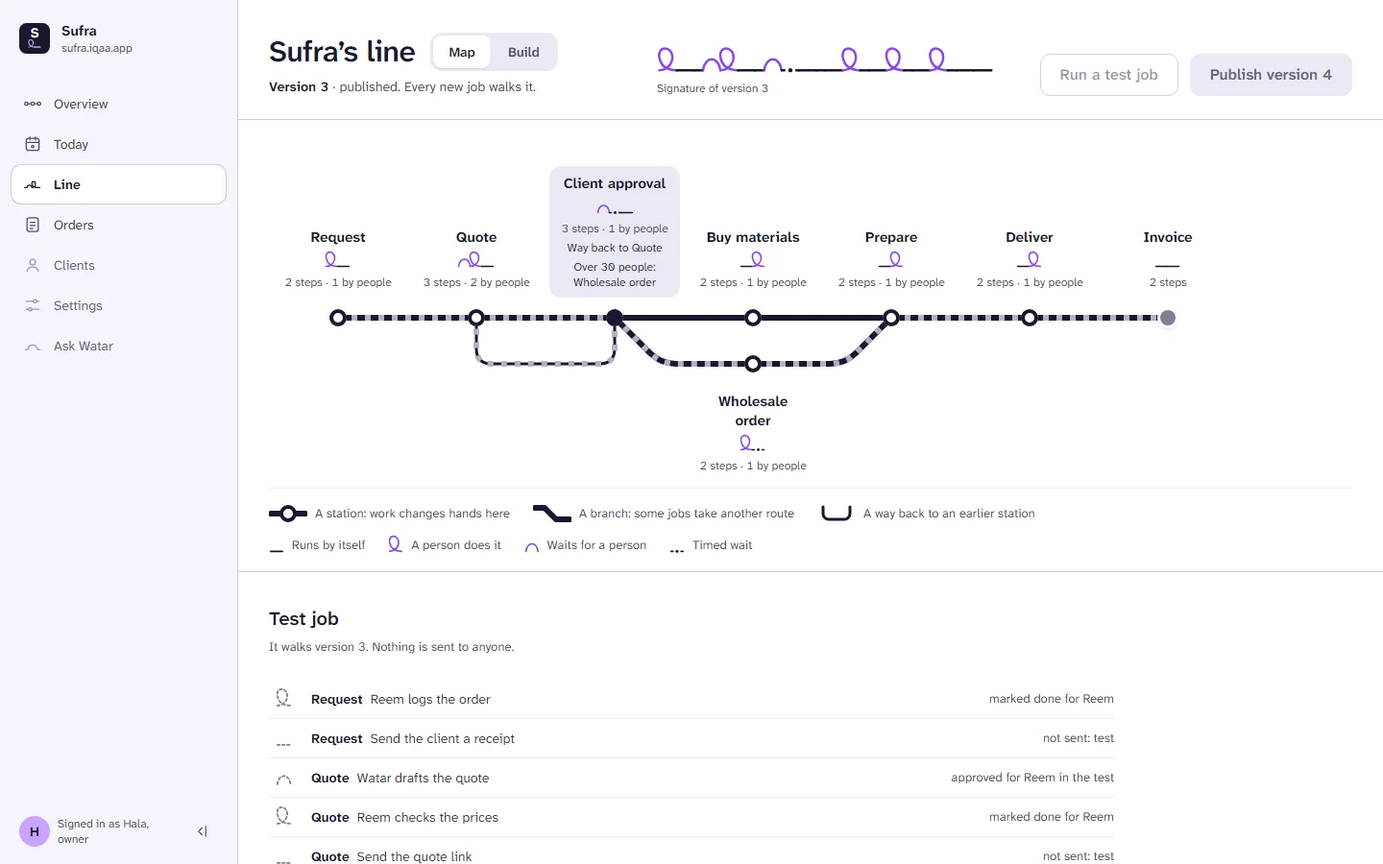
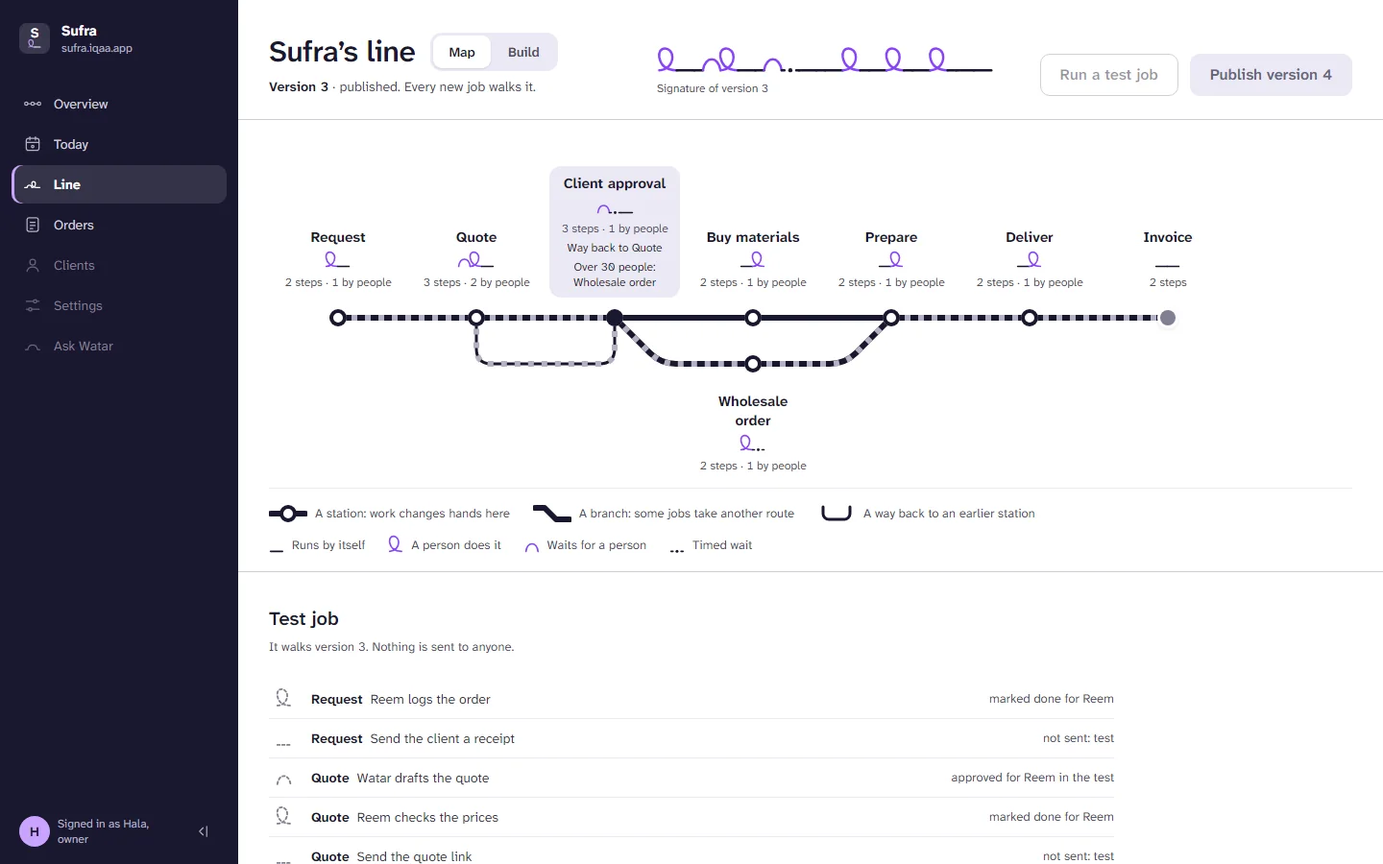
Fold the Build panels, style scrollbars, and layer the surfaces
- Blocks and Settings panels fold away so the canvas takes the full
  width; each folded panel leaves a tab on the canvas edge, [ and ]
  toggle them, and the choice is remembered.
- Thin rounded scrollbars in the identity's greys across the app.
- Distinct surfaces: ink sidebar on desktop, quiet grey library with
  a white head, white canvas, raised settings panel with a titled
  strip and divided sections, header lifted off the canvas.
- Bump the asset version to 89 and recapture the Screens images.

Changed region(s): [[0.0, 0.0, 0.1875, 1.0]]

diff --git a/build.html b/build.html
@@ -7,12 +7,12 @@
 <meta name="robots" content="noindex">
 <link rel="icon" href="favicon.svg" type="image/svg+xml">
 <link rel="preload" href="assets/fonts/atkinson.woff2" as="font" type="font/woff2" crossorigin>
-<link rel="stylesheet" href="assets/css/tokens.css?v=88">
-<link rel="stylesheet" href="assets/css/brand.css?v=88">
-<link rel="stylesheet" href="assets/css/auth.css?v=88">
-<link rel="stylesheet" href="assets/css/app.css?v=88">
-<link rel="stylesheet" href="assets/css/build.css?v=88">
-<script src="assets/js/iqaa-data.js?v=88" defer></script><script src="assets/js/grammar.js?v=88" defer></script><script src="assets/js/beats.js?v=88" defer></script><script src="assets/js/sufra.js?v=88" defer></script><script src="assets/js/build.js?v=88" defer></script><script src="assets/js/app.js?v=88" defer></script>
+<link rel="stylesheet" href="assets/css/tokens.css?v=89">
+<link rel="stylesheet" href="assets/css/brand.css?v=89">
+<link rel="stylesheet" href="assets/css/auth.css?v=89">
+<link rel="stylesheet" href="assets/css/app.css?v=89">
+<link rel="stylesheet" href="assets/css/build.css?v=89">
+<script src="assets/js/iqaa-data.js?v=89" defer></script><script src="assets/js/grammar.js?v=89" defer></script><script src="assets/js/beats.js?v=89" defer></script><script src="assets/js/sufra.js?v=89" defer></script><script src="assets/js/build.js?v=89" defer></script><script src="assets/js/app.js?v=89" defer></script>
 </head>
 <body class="app">
 <a class="skip" href="#main">Skip to content</a>
@@ -36,7 +36,8 @@
 </div>
 </header>
 <div class="bd-body">
-<aside class="bd-lib" aria-labelledby="lib-h"><h2 id="lib-h">Blocks</h2><p class="hint">Drag a block onto a station, or onto the canvas for a new station.</p><p class="lib-new"><button type="button" class="lib-it st" data-lib="station"><span class="lib-ic"><svg viewBox="0 0 40 20" width="40" height="20" aria-hidden="true"><path d="M2 10h36" stroke="#fff" stroke-width="5" stroke-linecap="round"/><circle cx="20" cy="10" r="6.5" fill="#19172E" stroke="#fff" stroke-width="3.5"/></svg></span><span><b>Station</b><span>Where work changes hands</span></span></button></p><h3><span class="lib-g"><svg viewBox="-3.2 -33.2 30.4 42.2" width="14" height="19.434" aria-hidden="true"><path d="M0 0c10 0 18 -8 18 -18c0 -8 -6 -12 -10 -12c-6 0 -9 5 -8 12c2 12 10 18 24 18" fill="none" stroke="#8845F8" stroke-width="3.2" stroke-linecap="round" stroke-linejoin="round"/></svg></span>By hand</h3><ul><li><button type="button" class="lib-it" data-lib="task"><span class="lib-ic"><svg viewBox="-3.2 -33.2 30.4 42.2" width="22" height="30.539" aria-hidden="true"><path d="M0 0c10 0 18 -8 18 -18c0 -8 -6 -12 -10 -12c-6 0 -9 5 -8 12c2 12 10 18 24 18" fill="none" stroke="#8845F8" stroke-width="3.2" stroke-linecap="round" stroke-linejoin="round"/></svg></span><span><b>Task</b><span>Someone does a piece of work, with a checklist</span></span></button></li></ul><h3><span class="lib-g"><svg viewBox="-3.2 -33.2 30.4 42.2" width="14" height="19.434" aria-hidden="true"><path d="M0 0c3 -20 21 -20 24 0" fill="none" stroke="#8845F8" stroke-width="3.2" stroke-linecap="round" stroke-linejoin="round"/></svg></span>Waits for a person</h3><ul><li><button type="button" class="lib-it" data-lib="approval"><span class="lib-ic"><svg viewBox="-3.2 -33.2 30.4 42.2" width="22" height="30.539" aria-hidden="true"><path d="M0 0c3 -20 21 -20 24 0" fill="none" stroke="#8845F8" stroke-width="3.2" stroke-linecap="round" stroke-linejoin="round"/></svg></span><span><b>Approval</b><span>A person, or the client, approves</span></span></button></li><li><button type="button" class="lib-it" data-lib="watar"><span class="lib-ic"><svg viewBox="-3.2 -33.2 30.4 42.2" width="22" height="30.539" aria-hidden="true"><path d="M0 0c3 -20 21 -20 24 0" fill="none" stroke="#8845F8" stroke-width="3.2" stroke-linecap="round" stroke-linejoin="round"/></svg></span><span><b>Watar draft</b><span>Watar drafts it; a person approves</span></span></button></li></ul><h3><span class="lib-g"><svg viewBox="-3.2 -33.2 30.4 42.2" width="14" height="19.434" aria-hidden="true"><path d="M0 0h24" fill="none" stroke="#19172E" stroke-width="3.2" stroke-linecap="round" stroke-linejoin="round"/></svg></span>Runs by itself</h3><ul><li><button type="button" class="lib-it" data-lib="send"><span class="lib-ic"><svg viewBox="-3.2 -33.2 30.4 42.2" width="22" height="30.539" aria-hidden="true"><path d="M0 0h24" fill="none" stroke="#19172E" stroke-width="3.2" stroke-linecap="round" stroke-linejoin="round"/></svg></span><span><b>Send</b><span>A message by email, WhatsApp or SMS</span></span></button></li><li><button type="button" class="lib-it" data-lib="remind"><span class="lib-ic"><svg viewBox="-3.2 -33.2 30.4 42.2" width="22" height="30.539" aria-hidden="true"><path d="M0 0h24" fill="none" stroke="#19172E" stroke-width="3.2" stroke-linecap="round" stroke-linejoin="round"/></svg></span><span><b>Remind</b><span>Nudge someone who has not answered</span></span></button></li><li><button type="button" class="lib-it" data-lib="create"><span class="lib-ic"><svg viewBox="-3.2 -33.2 30.4 42.2" width="22" height="30.539" aria-hidden="true"><path d="M0 0h24" fill="none" stroke="#19172E" stroke-width="3.2" stroke-linecap="round" stroke-linejoin="round"/></svg></span><span><b>Create</b><span>An invoice, a shopping list, a task</span></span></button></li><li><button type="button" class="lib-it" data-lib="move"><span class="lib-ic"><svg viewBox="-3.2 -33.2 30.4 42.2" width="22" height="30.539" aria-hidden="true"><path d="M0 0h24" fill="none" stroke="#19172E" stroke-width="3.2" stroke-linecap="round" stroke-linejoin="round"/></svg></span><span><b>Move job</b><span>Send the job to another station</span></span></button></li><li><button type="button" class="lib-it" data-lib="condition"><span class="lib-ic"><svg viewBox="-3.2 -33.2 30.4 42.2" width="22" height="30.539" aria-hidden="true"><path d="M0 0h24" fill="none" stroke="#19172E" stroke-width="3.2" stroke-linecap="round" stroke-linejoin="round"/></svg></span><span><b>Condition</b><span>Split the line on a rule</span></span></button></li><li><button type="button" class="lib-it" data-lib="webhook"><span class="lib-ic"><svg viewBox="-3.2 -33.2 30.4 42.2" width="22" height="30.539" aria-hidden="true"><path d="M0 0h24" fill="none" stroke="#19172E" stroke-width="3.2" stroke-linecap="round" stroke-linejoin="round"/></svg></span><span><b>Webhook</b><span>Start when another system calls in</span></span></button></li><li><button type="button" class="lib-it" data-lib="http"><span class="lib-ic"><svg viewBox="-3.2 -33.2 30.4 42.2" width="22" height="30.539" aria-hidden="true"><path d="M0 0h24" fill="none" stroke="#19172E" stroke-width="3.2" stroke-linecap="round" stroke-linejoin="round"/></svg></span><span><b>HTTP request</b><span>Call another system</span></span></button></li></ul><h3><span class="lib-g"><svg viewBox="-3.2 -33.2 30.4 42.2" width="14" height="19.434" aria-hidden="true"><path d="M0 0h4M20 0h4" fill="none" stroke="#19172E" stroke-width="3.2" stroke-linecap="round"/><circle cx="12" cy="0" r="2.88" fill="#19172E"/></svg></span>Pause</h3><ul><li><button type="button" class="lib-it" data-lib="wait"><span class="lib-ic"><svg viewBox="-3.2 -33.2 30.4 42.2" width="22" height="30.539" aria-hidden="true"><path d="M0 0h4M20 0h4" fill="none" stroke="#19172E" stroke-width="3.2" stroke-linecap="round"/><circle cx="12" cy="0" r="2.88" fill="#19172E"/></svg></span><span><b>Wait</b><span>A timed pause</span></span></button></li></ul></aside>
+<aside class="bd-lib" id="bd-lib" aria-labelledby="lib-h"><div class="pn-h"><h2 id="lib-h">Blocks</h2><button type="button" class="pn-x" data-fold-p="lib" aria-label="Hide the blocks ([)" title="Hide the blocks ([)"><svg viewBox="0 0 24 24" width="18" height="18" fill="none" stroke="currentColor" stroke-width="1.5" stroke-linecap="round" stroke-linejoin="round" aria-hidden="true"><path d="M14 7l-5 5 5 5M19 5v14"/></svg></button></div><div class="pn-b"><p class="hint">Drag a block onto a station, or onto the canvas for a new station.</p><p class="lib-new"><button type="button" class="lib-it st" data-lib="station"><span class="lib-ic"><svg viewBox="0 0 40 20" width="40" height="20" aria-hidden="true"><path d="M2 10h36" stroke="#fff" stroke-width="5" stroke-linecap="round"/><circle cx="20" cy="10" r="6.5" fill="#19172E" stroke="#fff" stroke-width="3.5"/></svg></span><span><b>Station</b><span>Where work changes hands</span></span></button></p><h3><span class="lib-g"><svg viewBox="-3.2 -33.2 30.4 42.2" width="14" height="19.434" aria-hidden="true"><path d="M0 0c10 0 18 -8 18 -18c0 -8 -6 -12 -10 -12c-6 0 -9 5 -8 12c2 12 10 18 24 18" fill="none" stroke="#8845F8" stroke-width="3.2" stroke-linecap="round" stroke-linejoin="round"/></svg></span>By hand</h3><ul><li><button type="button" class="lib-it" data-lib="task"><span class="lib-ic"><svg viewBox="-3.2 -33.2 30.4 42.2" width="22" height="30.539" aria-hidden="true"><path d="M0 0c10 0 18 -8 18 -18c0 -8 -6 -12 -10 -12c-6 0 -9 5 -8 12c2 12 10 18 24 18" fill="none" stroke="#8845F8" stroke-width="3.2" stroke-linecap="round" stroke-linejoin="round"/></svg></span><span><b>Task</b><span>Someone does a piece of work, with a checklist</span></span></button></li></ul><h3><span class="lib-g"><svg viewBox="-3.2 -33.2 30.4 42.2" width="14" height="19.434" aria-hidden="true"><path d="M0 0c3 -20 21 -20 24 0" fill="none" stroke="#8845F8" stroke-width="3.2" stroke-linecap="round" stroke-linejoin="round"/></svg></span>Waits for a person</h3><ul><li><button type="button" class="lib-it" data-lib="approval"><span class="lib-ic"><svg viewBox="-3.2 -33.2 30.4 42.2" width="22" height="30.539" aria-hidden="true"><path d="M0 0c3 -20 21 -20 24 0" fill="none" stroke="#8845F8" stroke-width="3.2" stroke-linecap="round" stroke-linejoin="round"/></svg></span><span><b>Approval</b><span>A person, or the client, approves</span></span></button></li><li><button type="button" class="lib-it" data-lib="watar"><span class="lib-ic"><svg viewBox="-3.2 -33.2 30.4 42.2" width="22" height="30.539" aria-hidden="true"><path d="M0 0c3 -20 21 -20 24 0" fill="none" stroke="#8845F8" stroke-width="3.2" stroke-linecap="round" stroke-linejoin="round"/></svg></span><span><b>Watar draft</b><span>Watar drafts it; a person approves</span></span></button></li></ul><h3><span class="lib-g"><svg viewBox="-3.2 -33.2 30.4 42.2" width="14" height="19.434" aria-hidden="true"><path d="M0 0h24" fill="none" stroke="#19172E" stroke-width="3.2" stroke-linecap="round" stroke-linejoin="round"/></svg></span>Runs by itself</h3><ul><li><button type="button" class="lib-it" data-lib="send"><span class="lib-ic"><svg viewBox="-3.2 -33.2 30.4 42.2" width="22" height="30.539" aria-hidden="true"><path d="M0 0h24" fill="none" stroke="#19172E" stroke-width="3.2" stroke-linecap="round" stroke-linejoin="round"/></svg></span><span><b>Send</b><span>A message by email, WhatsApp or SMS</span></span></button></li><li><button type="button" class="lib-it" data-lib="remind"><span class="lib-ic"><svg viewBox="-3.2 -33.2 30.4 42.2" width="22" height="30.539" aria-hidden="true"><path d="M0 0h24" fill="none" stroke="#19172E" stroke-width="3.2" stroke-linecap="round" stroke-linejoin="round"/></svg></span><span><b>Remind</b><span>Nudge someone who has not answered</span></span></button></li><li><button type="button" class="lib-it" data-lib="create"><span class="lib-ic"><svg viewBox="-3.2 -33.2 30.4 42.2" width="22" height="30.539" aria-hidden="true"><path d="M0 0h24" fill="none" stroke="#19172E" stroke-width="3.2" stroke-linecap="round" stroke-linejoin="round"/></svg></span><span><b>Create</b><span>An invoice, a shopping list, a task</span></span></button></li><li><button type="button" class="lib-it" data-lib="move"><span class="lib-ic"><svg viewBox="-3.2 -33.2 30.4 42.2" width="22" height="30.539" aria-hidden="true"><path d="M0 0h24" fill="none" stroke="#19172E" stroke-width="3.2" stroke-linecap="round" stroke-linejoin="round"/></svg></span><span><b>Move job</b><span>Send the job to another station</span></span></button></li><li><button type="button" class="lib-it" data-lib="condition"><span class="lib-ic"><svg viewBox="-3.2 -33.2 30.4 42.2" width="22" height="30.539" aria-hidden="true"><path d="M0 0h24" fill="none" stroke="#19172E" stroke-width="3.2" stroke-linecap="round" stroke-linejoin="round"/></svg></span><span><b>Condition</b><span>Split the line on a rule</span></span></button></li><li><button type="button" class="lib-it" data-lib="webhook"><span class="lib-ic"><svg viewBox="-3.2 -33.2 30.4 42.2" width="22" height="30.539" aria-hidden="true"><path d="M0 0h24" fill="none" stroke="#19172E" stroke-width="3.2" stroke-linecap="round" stroke-linejoin="round"/></svg></span><span><b>Webhook</b><span>Start when another system calls in</span></span></button></li><li><button type="button" class="lib-it" data-lib="http"><span class="lib-ic"><svg viewBox="-3.2 -33.2 30.4 42.2" width="22" height="30.539" aria-hidden="true"><path d="M0 0h24" fill="none" stroke="#19172E" stroke-width="3.2" stroke-linecap="round" stroke-linejoin="round"/></svg></span><span><b>HTTP request</b><span>Call another system</span></span></button></li></ul><h3><span class="lib-g"><svg viewBox="-3.2 -33.2 30.4 42.2" width="14" height="19.434" aria-hidden="true"><path d="M0 0h4M20 0h4" fill="none" stroke="#19172E" stroke-width="3.2" stroke-linecap="round"/><circle cx="12" cy="0" r="2.88" fill="#19172E"/></svg></span>Pause</h3><ul><li><button type="button" class="lib-it" data-lib="wait"><span class="lib-ic"><svg viewBox="-3.2 -33.2 30.4 42.2" width="22" height="30.539" aria-hidden="true"><path d="M0 0h4M20 0h4" fill="none" stroke="#19172E" stroke-width="3.2" stroke-linecap="round"/><circle cx="12" cy="0" r="2.88" fill="#19172E"/></svg></span><span><b>Wait</b><span>A timed pause</span></span></button></li></ul></div></aside>
+<button type="button" class="pn-tab l" data-open-p="lib" aria-controls="bd-lib" aria-label="Show the blocks ([)" title="Show the blocks ([)"><svg viewBox="0 0 24 24" width="18" height="18" fill="none" stroke="currentColor" stroke-width="1.5" stroke-linecap="round" stroke-linejoin="round" aria-hidden="true"><path d="M10 7l5 5-5 5M5 5v14"/></svg><span>Blocks</span></button>
 <div class="bd-canvas" data-canvas tabindex="0" role="application" aria-label="The line’s canvas. Drag to move around; Ctrl and the wheel to zoom.">
 <div class="bd-world" data-world><svg class="bd-edges" data-edges aria-hidden="true"></svg><div data-blocks></div></div>
 <div class="bd-checks" id="checks" data-checks hidden></div>
@@ -52,7 +53,8 @@
 <div class="bd-test" data-testbar hidden><form class="tb-set" data-test-set novalidate><b>Test job</b><label>People <input class="sn num" type="number" min="1" max="999" value="40" data-t-people></label><label class="chk"><input type="checkbox" checked data-t-back><span>Take each way back once</span></label><button type="submit" class="btn small ink">Start</button><button type="button" class="btn small" data-do="test-close">Close</button></form><p class="tb-now" data-t-now aria-live="polite"></p></div>
 <p class="bd-tip" data-tip>Drag from a station’s ring to another station to hand the job on. Yes and Change asked are dragged the same way.</p>
 </div>
-<aside class="bd-insp" data-insp aria-label="Selected block"></aside>
+<button type="button" class="pn-tab r" data-open-p="insp" aria-controls="bd-insp" aria-label="Show the settings (])" title="Show the settings (])"><svg viewBox="0 0 24 24" width="18" height="18" fill="none" stroke="currentColor" stroke-width="1.5" stroke-linecap="round" stroke-linejoin="round" aria-hidden="true"><path d="M14 7l-5 5 5 5M19 5v14"/></svg><span>Settings</span></button>
+<aside class="bd-insp" id="bd-insp" aria-labelledby="in-h"><div class="pn-h"><h2 id="in-h">Settings</h2><button type="button" class="pn-x" data-fold-p="insp" aria-label="Hide the settings (])" title="Hide the settings (])"><svg viewBox="0 0 24 24" width="18" height="18" fill="none" stroke="currentColor" stroke-width="1.5" stroke-linecap="round" stroke-linejoin="round" aria-hidden="true"><path d="M10 7l5 5-5 5M5 5v14"/></svg></button></div><div class="pn-b" data-insp></div></aside>
 </div>
 <p class="bd-live sr" data-live aria-live="polite"></p>
 </div>

diff --git a/assets/css/build.css b/assets/css/build.css
@@ -4,7 +4,7 @@ main.bd { background: #fff; }
 main.bd + .a-foot { display: none; }
 .bd-page { display: flex; flex-direction: column; height: 100vh; }
 
-.bd-head { display: flex; align-items: center; justify-content: space-between; flex-wrap: wrap; gap: var(--s-3) var(--s-6); padding: var(--s-3) var(--s-6); border-block-end: 1px solid var(--iqaa-n200); }
+.bd-head { position: relative; z-index: 5; display: flex; align-items: center; justify-content: space-between; flex-wrap: wrap; gap: var(--s-3) var(--s-6); padding: var(--s-3) var(--s-6); background: #fff; border-block-end: 1px solid var(--iqaa-n200); box-shadow: 0 8px 20px -18px rgba(25, 23, 46, 0.35); }
 .bd-title { display: flex; align-items: center; flex-wrap: wrap; gap: var(--s-2) var(--s-4); min-width: 0; }
 .bd-title h1 { font-size: var(--t-md); line-height: var(--lh-md); font-weight: 600; max-width: none; }
 .bd-state { font-size: 13px; line-height: 20px; color: var(--iqaa-n700); }
@@ -19,11 +19,26 @@ main.bd + .a-foot { display: none; }
 .bd-checks-btn.bad { border-color: var(--iqaa-red); color: var(--iqaa-red); }
 .bd-checks-btn > span { display: inline-flex; align-items: center; gap: var(--s-2); }
 
-.bd-body { flex: 1; min-height: 0; display: grid; grid-template-columns: 232px minmax(0, 1fr) 312px; }
+.bd-body { position: relative; flex: 1; min-height: 0; display: grid; grid-template-columns: 232px minmax(0, 1fr) 312px; transition: grid-template-columns var(--m-quarter) var(--ease-move); }
+.bd-body.lib-closed { grid-template-columns: 0 minmax(0, 1fr) 312px; }
+.bd-body.insp-closed { grid-template-columns: 232px minmax(0, 1fr) 0; }
+.bd-body.lib-closed.insp-closed { grid-template-columns: 0 minmax(0, 1fr) 0; }
+.lib-closed .bd-lib, .insp-closed .bd-insp { visibility: hidden; overflow: hidden; padding: 0; border: 0; }
+/* a folded panel leaves a slim tab on the canvas edge */
+.pn-tab { position: absolute; z-index: 8; inset-block-start: var(--s-3); display: inline-flex; align-items: center; gap: 4px; height: 36px; padding: 0 10px; border: 0; background: var(--iqaa-ink); color: #fff; font: inherit; font-size: 12px; font-weight: 700; cursor: pointer; box-shadow: 0 6px 16px -8px rgba(25, 23, 46, 0.5); }
+.pn-tab.l { inset-inline-start: 0; border-radius: 0 10px 10px 0; }
+.pn-tab.r { inset-inline-end: 0; border-radius: 10px 0 0 10px; }
+.pn-tab:hover { background: var(--iqaa-n800); }
+.pn-h { display: flex; align-items: center; justify-content: space-between; gap: var(--s-2); }
+.pn-x { width: 32px; height: 32px; display: grid; place-items: center; border: 0; border-radius: 8px; background: none; color: var(--iqaa-n700); cursor: pointer; flex: none; }
+.pn-x:hover { background: var(--iqaa-n100); color: var(--iqaa-ink); }
+@media (prefers-reduced-motion: reduce) { .bd-body { transition: none; } }
 
 /* the library: every block, grouped by who does the work */
-.bd-lib { overflow-y: auto; padding: var(--s-4); border-inline-end: 1px solid var(--iqaa-n200); background: var(--iqaa-n50); display: flex; flex-direction: column; gap: var(--s-2); }
-.bd-lib h2 { font-size: 15px; line-height: 22px; font-weight: 700; }
+.bd-lib { min-width: 0; display: flex; flex-direction: column; border-inline-end: 1px solid var(--iqaa-n200); background: var(--iqaa-n50); }
+.bd-lib .pn-h, .bd-insp .pn-h { padding: var(--s-3) var(--s-3) var(--s-3) var(--s-4); background: #fff; border-block-end: 1px solid var(--iqaa-n200); }
+.bd-lib > .pn-b { flex: 1; min-height: 0; overflow-y: auto; padding: var(--s-4); display: flex; flex-direction: column; gap: var(--s-2); }
+.bd-lib h2, .bd-insp h2 { font-size: 14px; line-height: 20px; font-weight: 700; }
 .bd-lib h3 { font-size: 12px; line-height: 16px; font-weight: 700; color: var(--iqaa-n700); margin-block-start: var(--s-3); }
 .bd-lib ul { list-style: none; margin: 0; padding: 0; display: flex; flex-direction: column; gap: 4px; }
 .lib-it { width: 100%; display: flex; align-items: flex-start; gap: var(--s-3); padding: var(--s-2); border: 1px solid transparent; border-radius: 10px; background: #fff; box-shadow: 0 0 0 1px var(--iqaa-n200); font: inherit; text-align: start; color: var(--iqaa-ink); cursor: grab; touch-action: none; }
@@ -90,7 +105,11 @@ main.bd + .a-foot { display: none; }
 .ed-l { font-family: 'Atkinson Hyperlegible Next', sans-serif; font-size: 11px; font-weight: 700; fill: var(--iqaa-n700); paint-order: stroke; stroke: #fff; stroke-width: 4px; }
 
 /* the inspector */
-.bd-insp { overflow-y: auto; padding: var(--s-5, 20px); border-inline-start: 1px solid var(--iqaa-n200); display: flex; flex-direction: column; gap: var(--s-4); }
+.bd-insp { position: relative; z-index: 4; min-width: 0; display: flex; flex-direction: column; background: #fff; border-inline-start: 1px solid var(--iqaa-n200); box-shadow: -12px 0 24px -20px rgba(25, 23, 46, 0.35); }
+.bd-insp > .pn-b { flex: 1; min-height: 0; overflow-y: auto; padding: var(--s-5, 20px); display: flex; flex-direction: column; gap: var(--s-4); }
+/* the inspector's first line is its subject, set apart; its sections divided by hairlines */
+.bd-insp .in-k { margin: calc(-1 * var(--s-5, 20px)) calc(-1 * var(--s-5, 20px)) 0; padding: var(--s-3) var(--s-5, 20px); background: var(--iqaa-n50); border-block-end: 1px solid var(--iqaa-n100); font-size: 13px; color: var(--iqaa-ink); }
+.bd-insp .in-f + .in-f, .bd-insp .in-act, .bd-insp .chk { padding-block-start: var(--s-4); border-block-start: 1px solid var(--iqaa-n100); }
 .in-k { display: flex; align-items: center; gap: var(--s-2); font-size: 12px; line-height: 16px; font-weight: 700; color: var(--iqaa-n700); }
 .in-f { display: flex; flex-direction: column; gap: 6px; }
 .in-f label, .in-l { font-size: 13px; line-height: 18px; font-weight: 700; }
@@ -123,7 +142,8 @@ main.bd + .a-foot { display: none; }
 /* below a laptop the panels stack under the canvas; building wants a larger screen, and says so */
 @media (max-width: 1023px) {
   .bd-page { height: auto; }
-  .bd-body { grid-template-columns: minmax(0, 1fr); }
+  .bd-body, .bd-body.lib-closed, .bd-body.insp-closed, .bd-body.lib-closed.insp-closed { grid-template-columns: minmax(0, 1fr); }
+  .pn-tab { display: none; }
   .bd-canvas { height: 62vh; order: -1; }
   .bd-lib { border: 0; border-block-start: 1px solid var(--iqaa-n200); }
   .bd-lib ul { display: grid; grid-template-columns: repeat(auto-fill, minmax(180px, 1fr)); }

diff --git a/assets/css/app.css b/assets/css/app.css
@@ -71,3 +71,32 @@ html.side-folded .ap-fold svg { transform: scaleX(-1); }
 .vw a { display: inline-flex; align-items: center; min-height: 34px; padding: 0 var(--s-4); border-radius: 9px; font-size: 14px; font-weight: 600; color: var(--iqaa-n700); text-decoration: none; }
 .vw a[aria-current] { background: #fff; color: var(--iqaa-ink); box-shadow: 0 1px 2px rgba(25, 23, 46, 0.1); }
 .ln-hr { display: flex; align-items: center; flex-wrap: wrap; gap: var(--s-2) var(--s-4); }
+
+/* layers: the organization's navigation is ink, so the work beside it reads as the lighter, brighter surface */
+@media (min-width: 900px) {
+  .a-top:has(.ap-side) { background: var(--iqaa-ink); border-inline-end: 0; }
+  .ap-org { color: #fff; }
+  .ap-org-t span { color: var(--iqaa-n300); }
+  .ap-org .org-mark svg rect { fill: #39374D; }
+  .ap-l { color: var(--iqaa-n200); }
+  .ap-l svg { color: var(--iqaa-n300); }
+  a.ap-l:hover { background: rgba(255, 255, 255, 0.08); color: #fff; }
+  .ap-l[aria-current] { background: rgba(255, 255, 255, 0.12); color: #fff; box-shadow: inset 3px 0 0 var(--iqaa-lilac); }
+  .ap-l[aria-current] svg { color: #fff; }
+  .off .ap-l { color: var(--iqaa-n500); }
+  .off .ap-l svg { color: var(--iqaa-n600); }
+  .ap-me-t { color: var(--iqaa-n300); }
+  .ap-fold { color: var(--iqaa-n300); }
+  .ap-fold:hover { background: rgba(255, 255, 255, 0.08); color: #fff; }
+  .ap-l:focus-visible, .ap-fold:focus-visible, .ap-org:focus-visible { outline-color: var(--iqaa-lilac); }
+  .a-top:has(.ap-side) { scrollbar-color: #39374D transparent; }
+}
+
+/* scrollbars: thin, rounded, in the identity's greys; never the browser's default grey slab */
+html { scrollbar-width: thin; scrollbar-color: var(--iqaa-n300) transparent; }
+* { scrollbar-width: thin; scrollbar-color: var(--iqaa-n300) transparent; }
+::-webkit-scrollbar { width: 10px; height: 10px; }
+::-webkit-scrollbar-track { background: transparent; }
+::-webkit-scrollbar-thumb { background: var(--iqaa-n300); border: 3px solid transparent; border-radius: 10px; background-clip: padding-box; }
+::-webkit-scrollbar-thumb:hover { background-color: var(--iqaa-n500); }
+::-webkit-scrollbar-corner { background: transparent; }

diff --git a/overview.html b/overview.html
@@ -7,12 +7,12 @@
 <meta name="robots" content="noindex">
 <link rel="icon" href="favicon.svg" type="image/svg+xml">
 <link rel="preload" href="assets/fonts/atkinson.woff2" as="font" type="font/woff2" crossorigin>
-<link rel="stylesheet" href="assets/css/tokens.css?v=88">
-<link rel="stylesheet" href="assets/css/brand.css?v=88">
-<link rel="stylesheet" href="assets/css/auth.css?v=88">
-<link rel="stylesheet" href="assets/css/app.css?v=88">
-<link rel="stylesheet" href="assets/css/orders.css?v=88">
-<script src="assets/js/iqaa-data.js?v=88" defer></script><script src="assets/js/grammar.js?v=88" defer></script><script src="assets/js/beats.js?v=88" defer></script><script src="assets/js/sufra.js?v=88" defer></script><script src="assets/js/jobs.js?v=88" defer></script><script src="assets/js/overview.js?v=88" defer></script><script src="assets/js/app.js?v=88" defer></script>
+<link rel="stylesheet" href="assets/css/tokens.css?v=89">
+<link rel="stylesheet" href="assets/css/brand.css?v=89">
+<link rel="stylesheet" href="assets/css/auth.css?v=89">
+<link rel="stylesheet" href="assets/css/app.css?v=89">
+<link rel="stylesheet" href="assets/css/orders.css?v=89">
+<script src="assets/js/iqaa-data.js?v=89" defer></script><script src="assets/js/grammar.js?v=89" defer></script><script src="assets/js/beats.js?v=89" defer></script><script src="assets/js/sufra.js?v=89" defer></script><script src="assets/js/jobs.js?v=89" defer></script><script src="assets/js/overview.js?v=89" defer></script><script src="assets/js/app.js?v=89" defer></script>
 </head>
 <body class="app">
 <a class="skip" href="#main">Skip to content</a>

diff --git a/orders.html b/orders.html
@@ -7,12 +7,12 @@
 <meta name="robots" content="noindex">
 <link rel="icon" href="favicon.svg" type="image/svg+xml">
 <link rel="preload" href="assets/fonts/atkinson.woff2" as="font" type="font/woff2" crossorigin>
-<link rel="stylesheet" href="assets/css/tokens.css?v=88">
-<link rel="stylesheet" href="assets/css/brand.css?v=88">
-<link rel="stylesheet" href="assets/css/auth.css?v=88">
-<link rel="stylesheet" href="assets/css/app.css?v=88">
-<link rel="stylesheet" href="assets/css/orders.css?v=88">
-<script src="assets/js/iqaa-data.js?v=88" defer></script><script src="assets/js/grammar.js?v=88" defer></script><script src="assets/js/beats.js?v=88" defer></script><script src="assets/js/sufra.js?v=88" defer></script><script src="assets/js/jobs.js?v=88" defer></script><script src="assets/js/orders.js?v=88" defer></script><script src="assets/js/app.js?v=88" defer></script>
+<link rel="stylesheet" href="assets/css/tokens.css?v=89">
+<link rel="stylesheet" href="assets/css/brand.css?v=89">
+<link rel="stylesheet" href="assets/css/auth.css?v=89">
+<link rel="stylesheet" href="assets/css/app.css?v=89">
+<link rel="stylesheet" href="assets/css/orders.css?v=89">
+<script src="assets/js/iqaa-data.js?v=89" defer></script><script src="assets/js/grammar.js?v=89" defer></script><script src="assets/js/beats.js?v=89" defer></script><script src="assets/js/sufra.js?v=89" defer></script><script src="assets/js/jobs.js?v=89" defer></script><script src="assets/js/orders.js?v=89" defer></script><script src="assets/js/app.js?v=89" defer></script>
 </head>
 <body class="app">
 <a class="skip" href="#main">Skip to content</a>

diff --git a/order.html b/order.html
@@ -7,12 +7,12 @@
 <meta name="robots" content="noindex">
 <link rel="icon" href="favicon.svg" type="image/svg+xml">
 <link rel="preload" href="assets/fonts/atkinson.woff2" as="font" type="font/woff2" crossorigin>
-<link rel="stylesheet" href="assets/css/tokens.css?v=88">
-<link rel="stylesheet" href="assets/css/brand.css?v=88">
-<link rel="stylesheet" href="assets/css/auth.css?v=88">
-<link rel="stylesheet" href="assets/css/app.css?v=88">
-<link rel="stylesheet" href="assets/css/orders.css?v=88">
-<script src="assets/js/iqaa-data.js?v=88" defer></script><script src="assets/js/grammar.js?v=88" defer></script><script src="assets/js/beats.js?v=88" defer></script><script src="assets/js/sufra.js?v=88" defer></script><script src="assets/js/jobs.js?v=88" defer></script><script src="assets/js/order.js?v=88" defer></script><script src="assets/js/app.js?v=88" defer></script>
+<link rel="stylesheet" href="assets/css/tokens.css?v=89">
+<link rel="stylesheet" href="assets/css/brand.css?v=89">
+<link rel="stylesheet" href="assets/css/auth.css?v=89">
+<link rel="stylesheet" href="assets/css/app.css?v=89">
+<link rel="stylesheet" href="assets/css/orders.css?v=89">
+<script src="assets/js/iqaa-data.js?v=89" defer></script><script src="assets/js/grammar.js?v=89" defer></script><script src="assets/js/beats.js?v=89" defer></script><script src="assets/js/sufra.js?v=89" defer></script><script src="assets/js/jobs.js?v=89" defer></script><script src="assets/js/order.js?v=89" defer></script><script src="assets/js/app.js?v=89" defer></script>
 </head>
 <body class="app">
 <a class="skip" href="#main">Skip to content</a>

diff --git a/today.html b/today.html
@@ -7,12 +7,12 @@
 <meta name="robots" content="noindex">
 <link rel="icon" href="favicon.svg" type="image/svg+xml">
 <link rel="preload" href="assets/fonts/atkinson.woff2" as="font" type="font/woff2" crossorigin>
-<link rel="stylesheet" href="assets/css/tokens.css?v=88">
-<link rel="stylesheet" href="assets/css/brand.css?v=88">
-<link rel="stylesheet" href="assets/css/auth.css?v=88">
-<link rel="stylesheet" href="assets/css/app.css?v=88">
-<link rel="stylesheet" href="assets/css/today.css?v=88">
-<script src="assets/js/iqaa-data.js?v=88" defer></script><script src="assets/js/grammar.js?v=88" defer></script><script src="assets/js/beats.js?v=88" defer></script><script src="assets/js/sufra.js?v=88" defer></script><script src="assets/js/jobs.js?v=88" defer></script><script src="assets/js/today.js?v=88" defer></script><script src="assets/js/app.js?v=88" defer></script>
+<link rel="stylesheet" href="assets/css/tokens.css?v=89">
+<link rel="stylesheet" href="assets/css/brand.css?v=89">
+<link rel="stylesheet" href="assets/css/auth.css?v=89">
+<link rel="stylesheet" href="assets/css/app.css?v=89">
+<link rel="stylesheet" href="assets/css/today.css?v=89">
+<script src="assets/js/iqaa-data.js?v=89" defer></script><script src="assets/js/grammar.js?v=89" defer></script><script src="assets/js/beats.js?v=89" defer></script><script src="assets/js/sufra.js?v=89" defer></script><script src="assets/js/jobs.js?v=89" defer></script><script src="assets/js/today.js?v=89" defer></script><script src="assets/js/app.js?v=89" defer></script>
 </head>
 <body class="app">
 <a class="skip" href="#main">Skip to content</a>

diff --git a/assets/js/build.js b/assets/js/build.js
@@ -823,6 +823,25 @@ ${pick('in-ro', ['>', '≥', '=', '<'], r.op, 'data-set="ro" aria-label="Compari
     if (d === 'test-close') closeTest();
   });
 
+  // ---------- panels fold away so the canvas can have the whole width; each choice is remembered ----------
+  const body = $('.bd-body');
+  function panel(name, open, quiet) {
+    body.classList.toggle(`${name}-closed`, !open);
+    $(`[data-open-p="${name}"]`).hidden = open;
+    try { localStorage.setItem(`iqaa-build-${name}`, open ? 'open' : 'closed'); } catch (e) { /* this page only */ }
+    if (!quiet) { setTimeout(() => { drawEdges(); drawMini(); }, M.quarter + 20); $(open ? `#bd-${name} .pn-x` : `[data-open-p="${name}"]`).focus(); }
+  }
+  ['lib', 'insp'].forEach((n) => { let v = null; try { v = localStorage.getItem(`iqaa-build-${n}`); } catch (e) { /* default */ } panel(n, v !== 'closed', true); });
+  root.addEventListener('click', (e) => {
+    const t = e.target.closest('[data-fold-p], [data-open-p]');
+    if (t) panel(t.dataset.foldP || t.dataset.openP, !!t.dataset.openP);
+  });
+  document.addEventListener('keydown', (e) => {
+    if (/^(INPUT|TEXTAREA|SELECT)$/.test(document.activeElement.tagName) || e.ctrlKey || e.metaKey) return;
+    if (e.key === '[') panel('lib', body.classList.contains('lib-closed'));
+    if (e.key === ']') panel('insp', body.classList.contains('insp-closed'));
+  });
+
   // ---------- start ----------
   render();
   // it opens close enough to read, on the start of the line; Fit shows all of it

diff --git a/line.html b/line.html
@@ -7,12 +7,12 @@
 <meta name="robots" content="noindex">
 <link rel="icon" href="favicon.svg" type="image/svg+xml">
 <link rel="preload" href="assets/fonts/atkinson.woff2" as="font" type="font/woff2" crossorigin>
-<link rel="stylesheet" href="assets/css/tokens.css?v=88">
-<link rel="stylesheet" href="assets/css/brand.css?v=88">
-<link rel="stylesheet" href="assets/css/auth.css?v=88">
-<link rel="stylesheet" href="assets/css/app.css?v=88">
-<link rel="stylesheet" href="assets/css/line.css?v=88">
-<script src="assets/js/iqaa-data.js?v=88" defer></script><script src="assets/js/grammar.js?v=88" defer></script><script src="assets/js/beats.js?v=88" defer></script><script src="assets/js/sufra.js?v=88" defer></script><script src="assets/js/line.js?v=88" defer></script><script src="assets/js/app.js?v=88" defer></script>
+<link rel="stylesheet" href="assets/css/tokens.css?v=89">
+<link rel="stylesheet" href="assets/css/brand.css?v=89">
+<link rel="stylesheet" href="assets/css/auth.css?v=89">
+<link rel="stylesheet" href="assets/css/app.css?v=89">
+<link rel="stylesheet" href="assets/css/line.css?v=89">
+<script src="assets/js/iqaa-data.js?v=89" defer></script><script src="assets/js/grammar.js?v=89" defer></script><script src="assets/js/beats.js?v=89" defer></script><script src="assets/js/sufra.js?v=89" defer></script><script src="assets/js/line.js?v=89" defer></script><script src="assets/js/app.js?v=89" defer></script>
 </head>
 <body class="app">
 <a class="skip" href="#main">Skip to content</a>

diff --git a/signin.html b/signin.html
@@ -7,10 +7,10 @@
 <meta name="robots" content="noindex">
 <link rel="icon" href="favicon.svg" type="image/svg+xml">
 <link rel="preload" href="assets/fonts/atkinson.woff2" as="font" type="font/woff2" crossorigin>
-<link rel="stylesheet" href="assets/css/tokens.css?v=88">
-<link rel="stylesheet" href="assets/css/brand.css?v=88">
-<link rel="stylesheet" href="assets/css/auth.css?v=88">
-<script src="assets/js/iqaa-data.js?v=88" defer></script><script src="assets/js/grammar.js?v=88" defer></script><script src="assets/js/beats.js?v=88" defer></script><script src="assets/js/signin.js?v=88" defer></script>
+<link rel="stylesheet" href="assets/css/tokens.css?v=89">
+<link rel="stylesheet" href="assets/css/brand.css?v=89">
+<link rel="stylesheet" href="assets/css/auth.css?v=89">
+<script src="assets/js/iqaa-data.js?v=89" defer></script><script src="assets/js/grammar.js?v=89" defer></script><script src="assets/js/beats.js?v=89" defer></script><script src="assets/js/signin.js?v=89" defer></script>
 </head>
 <body class="app">
 <a class="skip" href="#main">Skip to content</a>

diff --git a/signup.html b/signup.html
@@ -7,10 +7,10 @@
 <meta name="robots" content="noindex">
 <link rel="icon" href="favicon.svg" type="image/svg+xml">
 <link rel="preload" href="assets/fonts/atkinson.woff2" as="font" type="font/woff2" crossorigin>
-<link rel="stylesheet" href="assets/css/tokens.css?v=88">
-<link rel="stylesheet" href="assets/css/brand.css?v=88">
-<link rel="stylesheet" href="assets/css/auth.css?v=88">
-<script src="assets/js/iqaa-data.js?v=88" defer></script><script src="assets/js/grammar.js?v=88" defer></script><script src="assets/js/beats.js?v=88" defer></script><script src="assets/js/signup.js?v=88" defer></script>
+<link rel="stylesheet" href="assets/css/tokens.css?v=89">
+<link rel="stylesheet" href="assets/css/brand.css?v=89">
+<link rel="stylesheet" href="assets/css/auth.css?v=89">
+<script src="assets/js/iqaa-data.js?v=89" defer></script><script src="assets/js/grammar.js?v=89" defer></script><script src="assets/js/beats.js?v=89" defer></script><script src="assets/js/signup.js?v=89" defer></script>
 </head>
 <body class="app">
 <a class="skip" href="#main">Skip to content</a>

diff --git a/signature.html b/signature.html
@@ -8,10 +8,10 @@
 <meta name="robots" content="noindex">
 <link rel="icon" href="favicon.svg" type="image/svg+xml">
 <link rel="preload" href="assets/fonts/atkinson.woff2" as="font" type="font/woff2" crossorigin>
-<link rel="stylesheet" href="assets/css/tokens.css?v=88">
-<link rel="stylesheet" href="assets/css/brand.css?v=88">
-<link rel="stylesheet" href="assets/css/parts.css?v=88">
-<script src="assets/js/iqaa-data.js?v=88" defer></script><script src="assets/js/grammar.js?v=88" defer></script><script src="assets/js/generator.js?v=88" defer></script>
+<link rel="stylesheet" href="assets/css/tokens.css?v=89">
+<link rel="stylesheet" href="assets/css/brand.css?v=89">
+<link rel="stylesheet" href="assets/css/parts.css?v=89">
+<script src="assets/js/iqaa-data.js?v=89" defer></script><script src="assets/js/grammar.js?v=89" defer></script><script src="assets/js/generator.js?v=89" defer></script>
 </head>
 <body>
 <a class="skip" href="#main">Skip to content</a>
